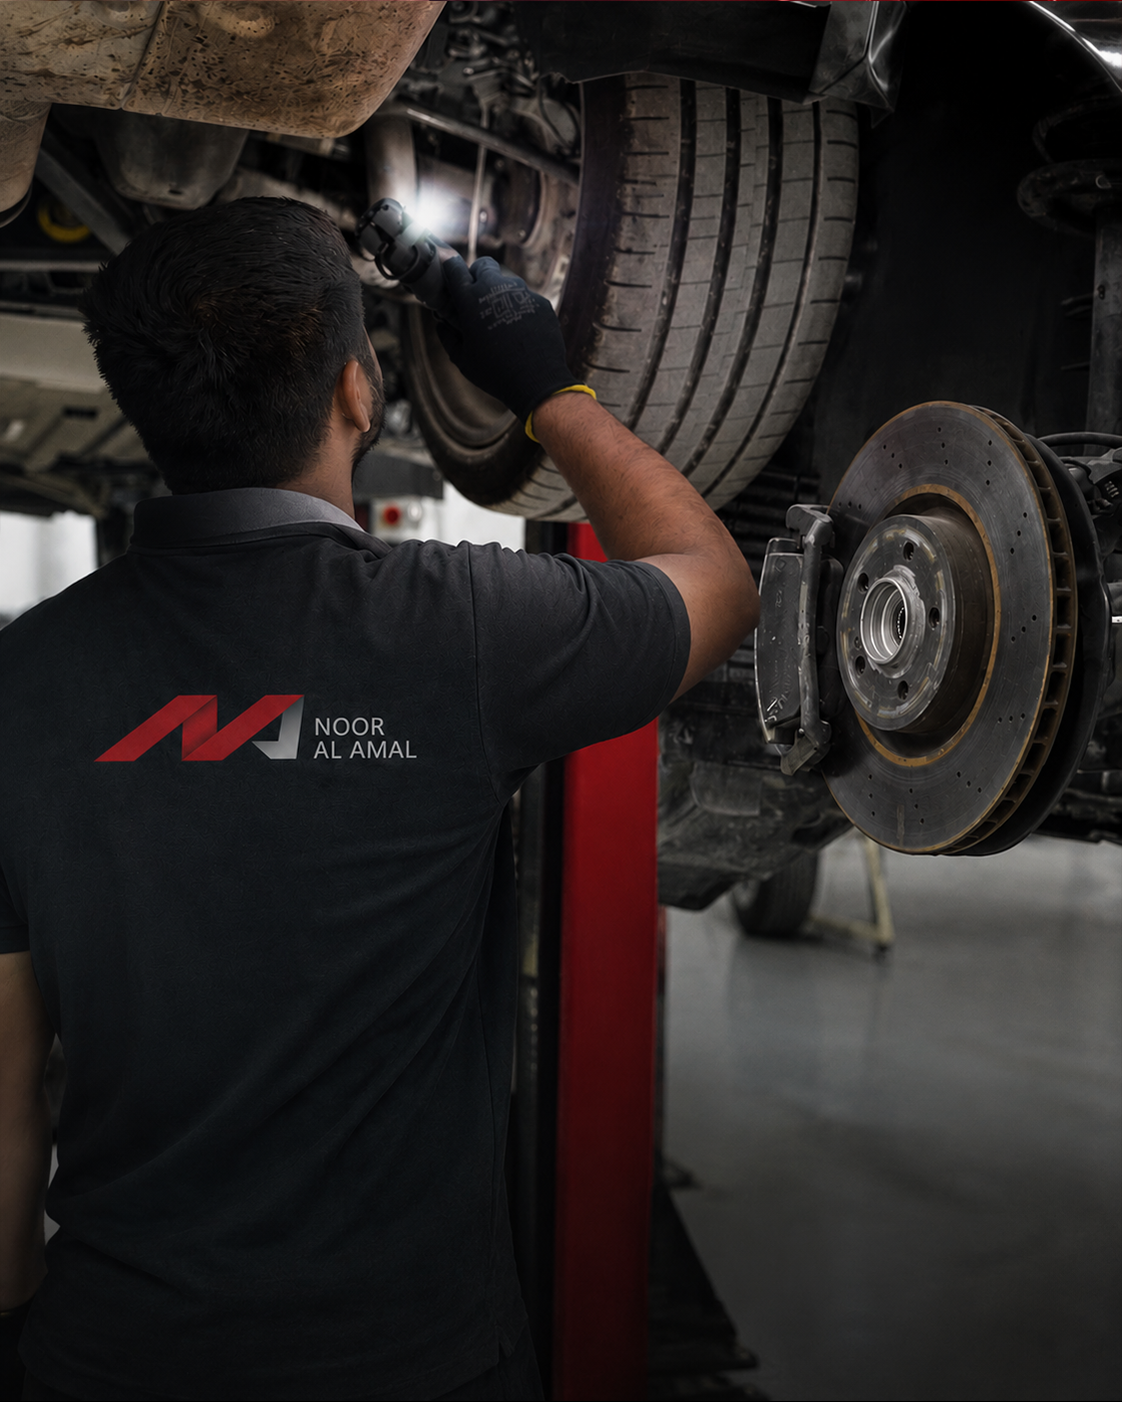
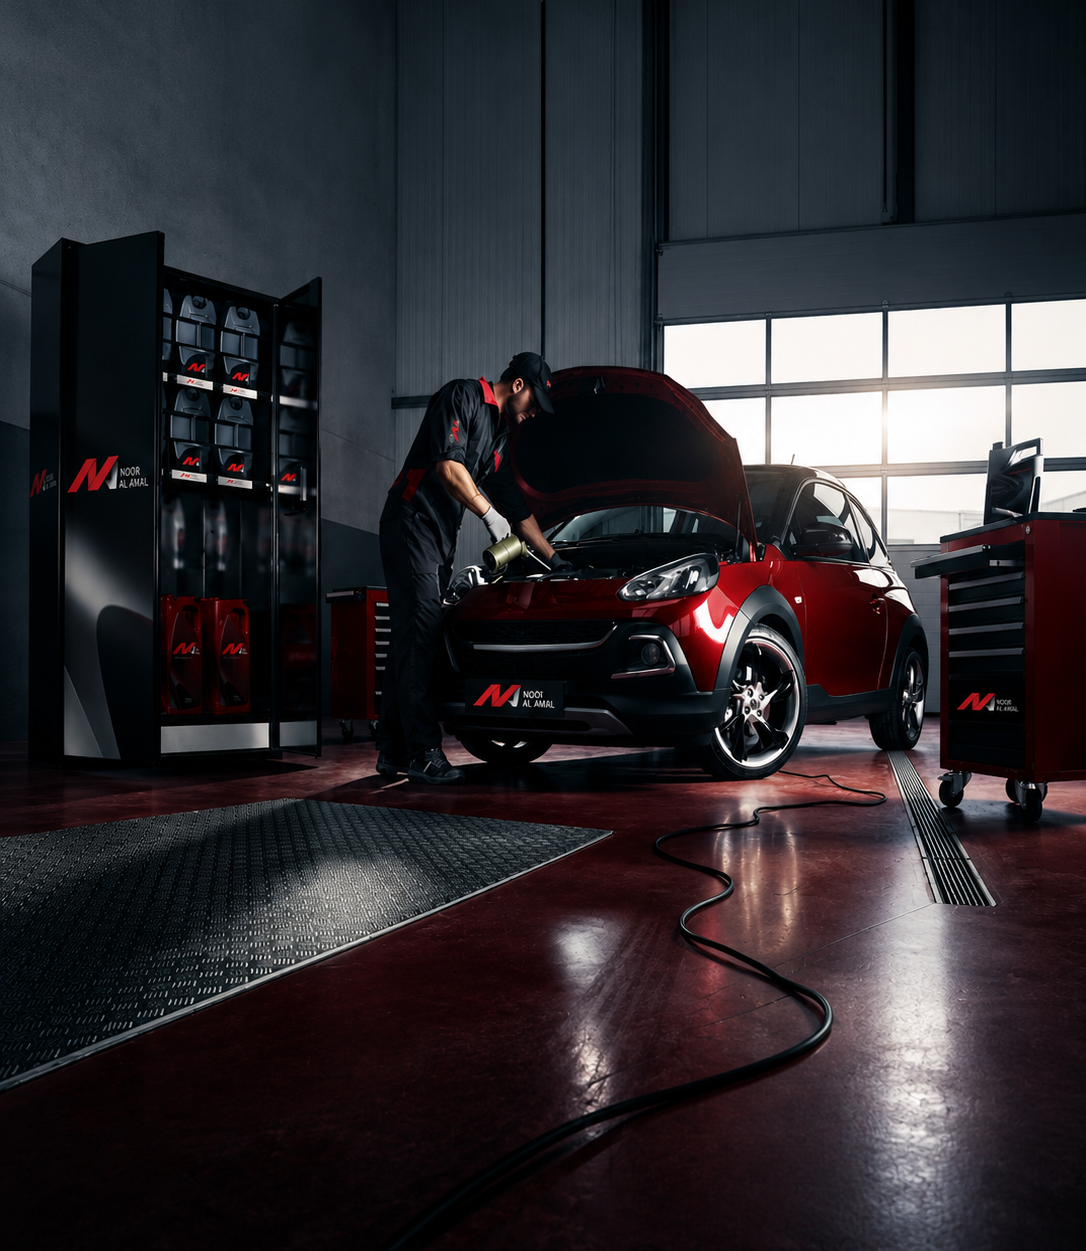
image-replacement

diff --git a/index.html b/index.html
@@ -223,7 +223,7 @@
                     <div class="oslide">
                         <div class="oslide-img osi-2">
                             <div class="osi-overlay">
-                                <img src="assets/images/workshop-2.png" alt="">
+                                <img src="assets/images/workshop.png" alt="">
                             </div>
                             <div class="osi-label">02 — WORKSHOP</div>
                             <div class="osi-pattern"></div>
@@ -430,7 +430,7 @@
                 <div class="vt-img-panel vip-2">
                     <div class="vip-inner">
                         <div class="vip-grid-pattern">
-                            <img src="assets/images/workshop-main.png" alt="">
+                            <img src="assets/images/workshop-2.png" alt="">
                         </div>
                         <div class="vip-glow"></div>
                         <div class="vip-tag">WORKSHOP</div>